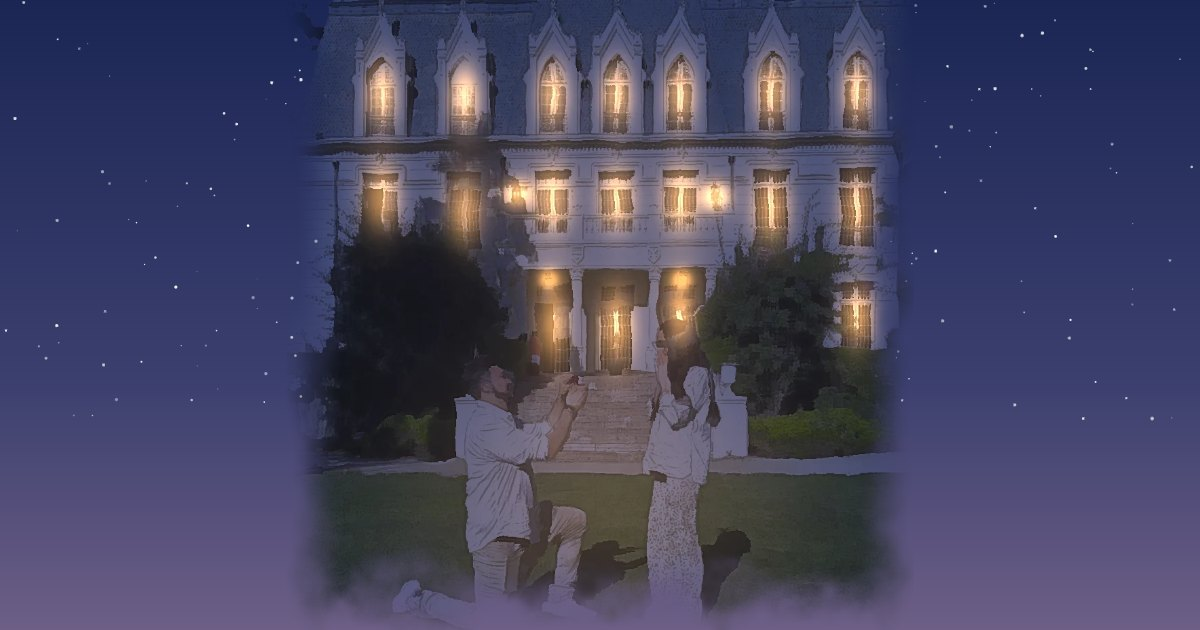
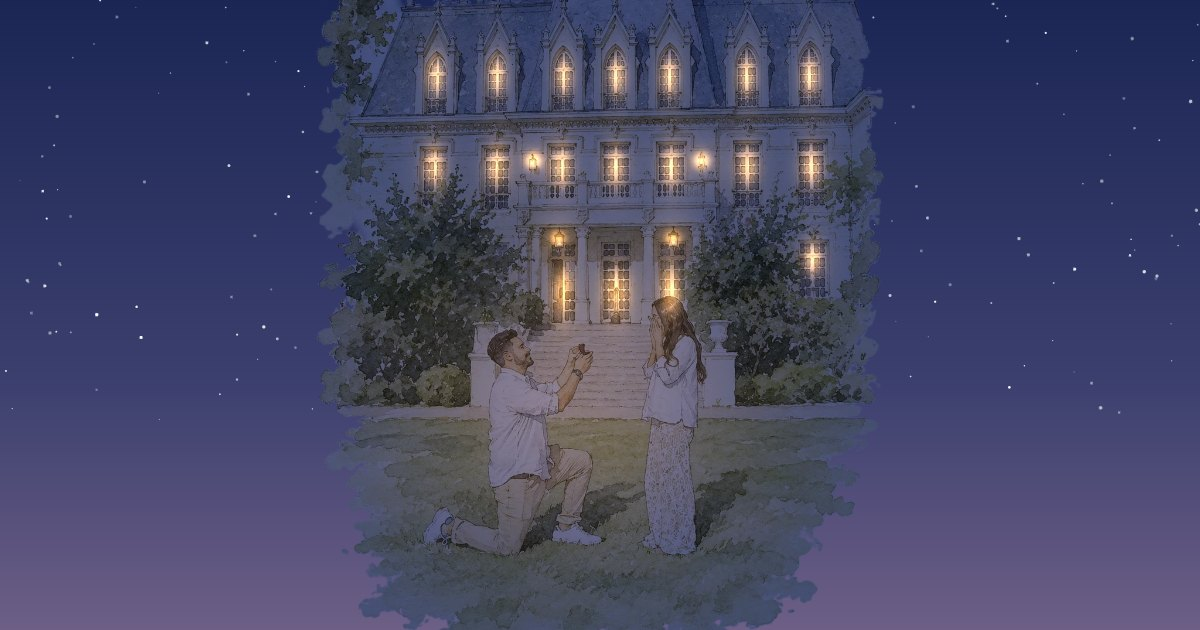
Add files via upload

diff --git a/index.html b/index.html
@@ -74,12 +74,16 @@ a{color:inherit}
 @keyframes breathe{0%,100%{transform:scale(1)}50%{transform:scale(1.045)}}
 .seal:focus-visible{outline:2px solid #fff;outline-offset:6px}
 .crack .seal-wrap{animation:none}
+.seal-glow{position:absolute;left:50%;top:55%;width:320px;height:320px;margin:-170px 0 0 -160px;border-radius:50%;pointer-events:none;opacity:0;transform:translateZ(45px) scale(.2);
+  background:radial-gradient(circle,rgba(255,240,195,.95),rgba(255,222,150,.45) 32%,rgba(255,215,130,0) 68%)}
+.crack .seal-glow{animation:sglow 1.8s ease-out forwards}
+@keyframes sglow{0%{opacity:0;transform:translateZ(45px) scale(.2)}22%{opacity:1}100%{opacity:0;transform:translateZ(45px) scale(5.5)}}
 .crack .seal .l{transform:translate(-26px,40px) rotate(-28deg);opacity:0}
 .crack .seal .r{transform:translate(26px,46px) rotate(24deg);opacity:0}
 .front-text{position:absolute;left:0;right:0;top:calc(55% + 96px);text-align:center;padding:0 16px;transform:translateZ(1px);transition:opacity .6s,transform .8s}
 .front-text .small{font-family:Cinzel;letter-spacing:.34em;font-size:12px;color:#8a7348;text-shadow:0 1px 0 rgba(255,255,255,.7)}
 .front-text .to{font-family:"Pinyon Script";font-size:clamp(40px,10.5vw,66px);line-height:1.15;margin-top:2px;color:#5b4526;text-shadow:0 1px 0 rgba(255,255,255,.75),0 -1px 0 rgba(90,65,25,.25)}
-.front-text .hint{display:inline-block;margin-top:24px;padding:13px 30px;border-radius:999px;background:linear-gradient(#fdf9ef,#efe5d0);box-shadow:inset 0 1px 0 rgba(255,255,255,.95),0 7px 18px -7px rgba(90,65,25,.5),0 0 0 1px rgba(150,120,70,.22);font-family:Cinzel;letter-spacing:.32em;font-size:12.5px;color:#5c4a2c;animation:pillGlow 2.8s ease-in-out infinite}
+.front-text .hint{display:inline-block;margin-top:24px;padding:13px 30px;border-radius:999px;background:linear-gradient(#fdf9ef,#efe5d0);box-shadow:inset 0 1px 0 rgba(255,255,255,.95),0 7px 18px -7px rgba(90,65,25,.5),0 0 0 1px rgba(150,120,70,.22);font-family:"Pinyon Script",cursive;letter-spacing:.01em;font-size:28px;line-height:1;padding:12px 34px 14px;color:#5c4a2c;animation:pillGlow 2.8s ease-in-out infinite}
 @keyframes pillGlow{0%,100%{box-shadow:inset 0 1px 0 rgba(255,255,255,.95),0 7px 18px -7px rgba(90,65,25,.5),0 0 0 1px rgba(150,120,70,.22)}50%{box-shadow:inset 0 1px 0 rgba(255,255,255,.95),0 9px 24px -6px rgba(200,160,70,.6),0 0 0 1px rgba(190,150,70,.45)}}
 .crack .front-text{opacity:0;transform:translateZ(1px) translateY(24px)}
 .open .flap{transform:translateZ(2px) rotateX(178deg)}
@@ -109,9 +113,9 @@ a{color:inherit}
 @keyframes drift{from{transform:translateX(-3%)}to{transform:translateX(3%)}}
 .raster{position:absolute;inset:0;will-change:opacity}
 .raster img{position:absolute;inset:0;width:100%;height:100%;user-select:none;-webkit-user-drag:none}
-.world{left:50%;bottom:0;width:min(100vw,calc(80vh * .825));aspect-ratio:924/1120;transform:translateX(-50%) scale(1.05);transform-origin:50% 100%;will-change:transform}
-@supports (height:1svh){.world{width:min(100vw,calc(80svh * .825))}}
-.world .land{position:absolute;left:50%;bottom:-1px;width:300vw;height:34%;transform:translateX(-50%);pointer-events:none}
+.world{left:50%;bottom:0;width:min(100vw,calc(84vh * .6667));aspect-ratio:1024/1536;transform:translateX(-50%) scale(1.05);transform-origin:50% 100%;will-change:transform}
+@supports (height:1svh){.world{width:min(100vw,calc(84svh * .6667))}}
+.world .land{position:absolute;left:50%;bottom:-1px;width:300vw;height:22%;transform:translateX(-50%);pointer-events:none}
 .world .trees{position:absolute;left:-60%;width:220%;bottom:-1px;height:78%;pointer-events:none}
 .world img.sc{position:absolute;inset:0;width:100%;height:100%;user-select:none;-webkit-user-drag:none}
 .phase{left:0;right:0;top:7vh;text-align:center;padding:0 16px;will-change:opacity,transform}
@@ -392,8 +396,9 @@ footer .hash{font-family:Cinzel;letter-spacing:.25em;font-size:13px;color:var(--
     <div class="front-text">
       <div class="small">CON CARIÑO, PARA</div>
       <div class="to" id="introName">Ti</div>
-      <div class="hint">TOCA PARA ABRIR</div>
+      <div class="hint">Toca para abrir</div>
     </div>
+    <div class="seal-glow"></div>
     <button class="seal" id="seal" aria-label="Abrir invitación"><div class="seal-wrap"><div class="half l" id="sealL"></div><div class="half r" id="sealR"></div></div></button>
   </div>
 </div>
@@ -423,7 +428,7 @@ footer .hash{font-family:Cinzel;letter-spacing:.25em;font-size:13px;color:var(--
 
   <div class="world" id="world">
     <div class="land" id="land"></div>
-    <img class="sc" src="escena-dia.webp" alt="Mati y Javi frente al castillo, en dibujo a color">
+    <img class="sc" src="escena-dia.webp" alt="Mati y Javi frente al castillo, en acuarela">
     <img class="sc" id="imgSunset" src="escena-atardecer.webp" alt="" style="opacity:0">
     <img class="sc" id="imgNight" src="escena-noche.webp" alt="" style="opacity:0">
     <div class="trees" id="trees"></div>
@@ -482,7 +487,7 @@ footer .hash{font-family:Cinzel;letter-spacing:.25em;font-size:13px;color:var(--
     <div class="caps rv" style="margin-top:14px">El lugar</div>
     <h2 class="title rv d1">Donde todo florece</h2>
     <p class="lead rv d1">Elegimos un lugar verde y lleno de vida, porque así soñamos nuestro amor: algo que echa raíces, recibe la luz y no deja de crecer.</p>
-    <div class="venue clarify"><img src="lugar-dibujo.webp" alt="La parcela en Calera de Tango al atardecer, en dibujo a color" loading="lazy"></div>
+    <div class="venue clarify"><img src="lugar-acuarela.webp" alt="La parcela en Calera de Tango al atardecer, en acuarela" loading="lazy"></div>
     <div class="place-line rv" id="placeLine">CALERA DE TANGO · REGIÓN METROPOLITANA</div>
     <div class="btns rv"><a class="btn" id="mapBtn" target="_blank" rel="noopener"><svg viewBox="0 0 24 24" fill="none" stroke="currentColor" stroke-width="1.6"><path d="M12 22s7-7.2 7-12.5A7 7 0 005 9.5C5 14.8 12 22 12 22z"/><circle cx="12" cy="9.5" r="2.5"/></svg>Cómo llegar</a></div>
   </section>
@@ -580,7 +585,7 @@ const CONFIG = {
   hashtag: "#MatiYJavi",
   musica: "musica.mp3",               // archivo de la canción en la misma carpeta (A Drop in the Ocean)
   musicaInicio: 51,                   // segundo donde parte el coro (0:51)
-  musicaVolumen: .22
+  musicaVolumen: .1
 };
 
 /* ================= invitado desde el link ================= */
@@ -718,16 +723,16 @@ $("#rays").innerHTML = Array.from({length:14},(_,i)=>{ const a=i/14*Math.PI*2, r
 // pasto y árboles dibujados (3 luces)
 function landSVG(mode){ const c=h=>tint(h,mode);
   const tufts=Array.from({length:70},(_,i)=>{const x=20+i*42.5+((i*37)%17),y=150-((i*53)%22);return `<path d="M${x} ${y+14}l3-14l3 14M${x+6} ${y+14}l4-10" stroke="${c('#4c5e3a')}" stroke-width="1.6" fill="none" opacity=".6"/>`;}).join("");
-  return `<g filter="url(#wc-tree)"><path d="M0 150C300 120 600 160 900 136S1300 128 1500 138 2100 118 2400 144 2800 126 3000 150V420H0Z" fill="${c('#8db562')}"/></g>
-    <path d="M0 240C400 214 800 258 1200 234S2000 220 2400 244 2800 230 3000 248V420H0Z" fill="${c('#7fab55')}" opacity=".8"/>
-    <path d="M0 330C500 304 1000 344 1500 326S2500 306 3000 334V420H0Z" fill="${c('#6f9c4a')}" opacity=".85"/>${tufts}`; }
+  return `<g filter="url(#wc-tree)"><path d="M0 150C300 120 600 160 900 136S1300 128 1500 138 2100 118 2400 144 2800 126 3000 150V420H0Z" fill="${c('#bcc589')}"/></g>
+    <path d="M0 240C400 214 800 258 1200 234S2000 220 2400 244 2800 230 3000 248V420H0Z" fill="${c('#aebb79')}" opacity=".8"/>
+    <path d="M0 330C500 304 1000 344 1500 326S2500 306 3000 334V420H0Z" fill="${c('#9fb06c')}" opacity=".85"/>${tufts}`; }
 function treesSVG(mode){ const c=h=>tint(h,mode);
   const cluster=(x,s,k)=>`<g filter="url(#wc-tree)">
-      <path d="${bumpy(x-s*60,470,150,200,20,.1,k)}" fill="${c('#5f9446')}"/>
-      <path d="${bumpy(x+s*40,430,130,150,18,.12,k+1)}" fill="${c('#78ad55')}"/>
-      <path d="${bumpy(x+s*70,360,80,90,14,.14,k+2)}" fill="${c('#9fcb72')}"/>
-      <path d="${bumpy(x-s*20,590,170,90,18,.12,k+3)}" fill="${c('#4f8a3c')}"/>
-      <path d="${bumpy(x+s*10,795,190,52,16,.2,k+4,true)}" fill="${c('#5f9a45')}"/></g>
+      <path d="${bumpy(x-s*60,470,150,200,20,.1,k)}" fill="${c('#7f9259')}"/>
+      <path d="${bumpy(x+s*40,430,130,150,18,.12,k+1)}" fill="${c('#95a86a')}"/>
+      <path d="${bumpy(x+s*70,360,80,90,14,.14,k+2)}" fill="${c('#b2c083')}"/>
+      <path d="${bumpy(x-s*20,590,170,90,18,.12,k+3)}" fill="${c('#728652')}"/>
+      <path d="${bumpy(x+s*10,795,190,52,16,.2,k+4,true)}" fill="${c('#8a9c61')}"/></g>
     <path d="M${x-7} 640L${x-5} 770M${x+6} 640L${x+4} 770M${x-2} 680l-20-30M${x+2} 670l18-26" stroke="${c('#57483a')}" stroke-width="2.6" fill="none" opacity=".85"/>`;
   return cluster(585,1,1)+cluster(1615,-1,7); }for(const m of ["day","sunset","night"]){
   $("#land").insertAdjacentHTML("beforeend", `<div class="raster" id="land-${m}" style="opacity:${m==='day'?1:0}">${svgImg(landSVG(m),"0 0 3000 420","none",["wc-tree"])}</div>`);
@@ -777,8 +782,8 @@ function apply(p){
   E.world.style.transform=`translateX(-50%) scale(${(1.05-p*.05).toFixed(4)})`;
   phase(E.p1,1-ss(.1,.2,p),-30); phase(E.p2,ss(.22,.32,p)*(1-ss(.5,.6,p)),24); phase(E.p3,ss(.7,.82,p),24);
   // el pasto continúa en la página
-  const day=[111,156,74], dusk=[109,125,52], nite=[38,59,53]; let g0=mix(mix(day,dusk,a),nite,b);
-  E.bridge.style.setProperty("--g0",`rgb(${g0})`); E.bridge.style.setProperty("--g1",`rgb(${mix(g0,[150,190,110],.35)})`);
+  const day=[159,176,108], dusk=[156,141,76], nite=[50,65,70]; let g0=mix(mix(day,dusk,a),nite,b);
+  E.bridge.style.setProperty("--g0",`rgb(${g0})`); E.bridge.style.setProperty("--g1",`rgb(${mix(g0,[200,205,160],.35)})`);
 }
 // línea de tiempo (ms → progreso): día, atardecer, noche
 const KEYS=[[0,0],[1300,.02],[3300,.44],[3900,.47],[5900,1]];
@@ -824,21 +829,27 @@ function drawLeaves(dt){ const on=scrollY>stageEl.offsetHeight*.55; lv.style.opa
 const stageEl=$("#stage");
 let lastL=performance.now(); (function lf(now){ const dt=Math.min(.05,(now-lastL)/1000); lastL=now; if(!reduce) drawLeaves(dt); requestAnimationFrame(lf); })(lastL);
 
-/* ================= confeti al abrir ================= */
+/* ================= pétalos blancos (apertura y al tocar) ================= */
 const cv=$("#fx"), cx=cv.getContext("2d"); let FW,FH; const dpr2=Math.min(2,devicePixelRatio||1);
 function rs(){ FW=innerWidth; FH=innerHeight; cv.width=FW*dpr2; cv.height=FH*dpr2; cx.setTransform(dpr2,0,0,dpr2,0,0); } rs(); addEventListener("resize",rs);
-const COLS=["#f4c95d","#e8b04a","#fff4d6","#7cbf5a","#9fcb72","#f59fb0","#e8735a","#ffffff"];
-let parts=[], running=false;
-function burst(x,y,n=120,sp=8){ for(let i=0;i<n;i++){ const ang=Math.random()*Math.PI*2, s=2+Math.random()*sp;
-  parts.push({x,y,vx:Math.cos(ang)*s,vy:Math.sin(ang)*s-4,r:3+Math.random()*5,rot:Math.random()*6,vr:(Math.random()-.5)*.2,c:COLS[Math.random()*COLS.length|0],leaf:Math.random()<.5,life:1}); }
-  if(!running){ running=true; requestAnimationFrame(fxLoop);} }
-function fxLoop(){ cx.clearRect(0,0,FW,FH);
-  for(let i=parts.length-1;i>=0;i--){ const p=parts[i]; p.vx*=.975; p.vy=p.vy*.975+.14; p.x+=p.vx+Math.sin(p.rot)*.4; p.y+=p.vy; p.rot+=p.vr; p.life-=.0075;
-    if(p.life<=0||p.y>FH+30){ parts.splice(i,1); continue; }
-    cx.save(); cx.translate(p.x,p.y); cx.rotate(p.rot); cx.globalAlpha=Math.min(1,p.life*1.4); cx.fillStyle=p.c; cx.beginPath();
-    if(p.leaf) cx.ellipse(0,0,p.r*1.3,p.r*.55,0,0,7); else cx.arc(0,0,p.r*.55,0,7); cx.fill(); cx.restore(); }
+const TINTS=["#fbeef0","#f6e2e6","#fff7ea","#f3e9dc","#ffffff"];
+let parts=[], running=false, lastFx=0;
+function mkPetal(x,y,vx,vy,s){ return {x,y,vx,vy,s:s||7+Math.random()*7,rot:Math.random()*6.3,vr:(Math.random()-.5)*.03,flip:Math.random()*6.3,vf:.02+Math.random()*.04,
+  ph:Math.random()*6.3,tint:TINTS[Math.random()*TINTS.length|0],a:.92}; }
+function rain(n){ for(let i=0;i<n;i++) parts.push(mkPetal(Math.random()*FW, -20-Math.random()*FH*.7, (Math.random()-.5)*.6, .5+Math.random()*.6)); go(); }
+function petalsAt(x,y,n=7){ for(let i=0;i<n;i++){ const a=-Math.PI/2+(Math.random()-.5)*2.2; parts.push(mkPetal(x,y,Math.cos(a)*(.8+Math.random()*1.4),Math.sin(a)*(.8+Math.random()*1.4),5+Math.random()*5)); } go(); }
+function go(){ if(!running){ running=true; lastFx=performance.now(); requestAnimationFrame(fxLoop);} }
+function drawPetal(p){ const s=p.s; cx.save(); cx.translate(p.x,p.y); cx.rotate(p.rot); cx.scale(.35+.65*Math.abs(Math.cos(p.flip)),1); cx.globalAlpha=p.a;
+  const gr=cx.createLinearGradient(0,-s,0,s); gr.addColorStop(0,"#ffffff"); gr.addColorStop(1,p.tint); cx.fillStyle=gr;
+  cx.shadowColor="rgba(80,60,40,.12)"; cx.shadowBlur=4; cx.shadowOffsetY=2;
+  cx.beginPath(); cx.moveTo(0,-s); cx.bezierCurveTo(s*.95,-s*.75,s*.8,s*.55,0,s); cx.bezierCurveTo(-s*.8,s*.55,-s*.95,-s*.75,0,-s); cx.fill();
+  cx.shadowColor="transparent"; cx.strokeStyle="rgba(205,170,170,.28)"; cx.lineWidth=.7; cx.beginPath(); cx.moveTo(0,-s*.7); cx.quadraticCurveTo(s*.12,0,0,s*.85); cx.stroke(); cx.restore(); }
+function fxLoop(now){ const k=Math.min(3,(now-lastFx)/16.7); lastFx=now; cx.clearRect(0,0,FW,FH); const tt=now/1000;
+  for(let i=parts.length-1;i>=0;i--){ const p=parts[i];
+    p.vy=Math.min(1.25,p.vy+.025*k); p.vx*=Math.pow(.985,k);
+    p.x+=(p.vx+Math.sin(tt*1.3+p.ph)*.55+.15)*k; p.y+=p.vy*k; p.rot+=p.vr*k; p.flip+=p.vf*k;
+    if(p.y>FH+30){ parts.splice(i,1); continue; } drawPetal(p); }
   if(parts.length) requestAnimationFrame(fxLoop); else { running=false; cx.clearRect(0,0,FW,FH); } }
-
 /* ================= sobre: inclinación 3D y apertura ================= */
 const env=$("#env"), intro=$("#intro");
 function tilt(x,y){ env.style.setProperty("--ry",`${(x*7).toFixed(2)}deg`); env.style.setProperty("--rx",`${(-y*5).toFixed(2)}deg`); }
@@ -853,15 +864,15 @@ function openInvite(){
   const r=$("#seal").getBoundingClientRect();
   const step=(cls,ms)=>setTimeout(()=>intro.classList.add(cls), reduce?0:ms);
   intro.classList.add("crack");
-  if(!reduce) setTimeout(()=>burst(r.left+r.width/2, r.top+r.height/2),350);
+  if(!reduce){ setTimeout(()=>rain(26),500); setTimeout(()=>rain(30),2600); }
   step("open",450); step("rise",1300); step("lift",2600); step("zoom",3300);
   setTimeout(()=>{ intro.classList.add("gone"); document.body.classList.remove("locked"); scrollTo(0,0); play(); }, reduce?50:3700);
   setTimeout(()=>intro.remove(), reduce?1300:5200);
   startMusic();
 }
 intro.addEventListener("click", openInvite);
-// destellos y hojitas al tocar cualquier parte (lúdico)
-addEventListener("pointerdown",e=>{ if(!opened||reduce||e.target.closest("a,button")) return; burst(e.clientX,e.clientY,16,4); });
+// pétalos blancos al tocar cualquier parte
+addEventListener("pointerdown",e=>{ if(!opened||reduce||e.target.closest("a,button")) return; petalsAt(e.clientX,e.clientY,7); });
 </script>
 </body>
 </html>
